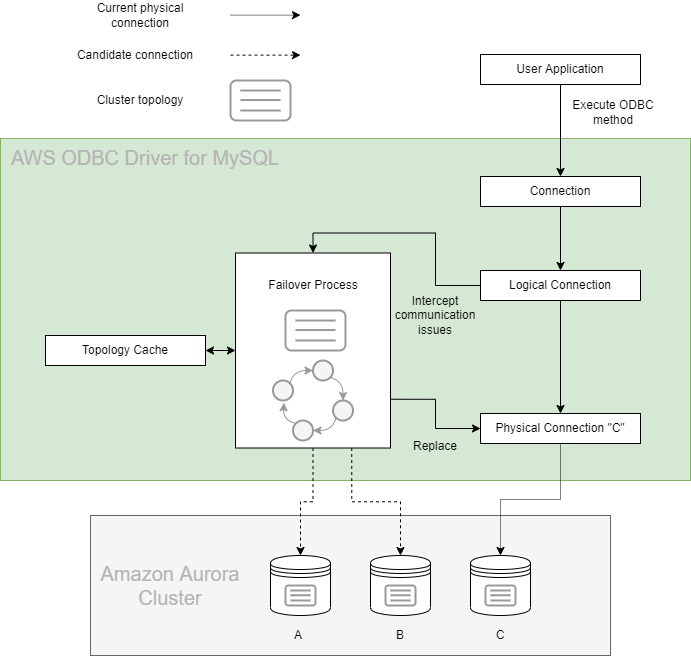
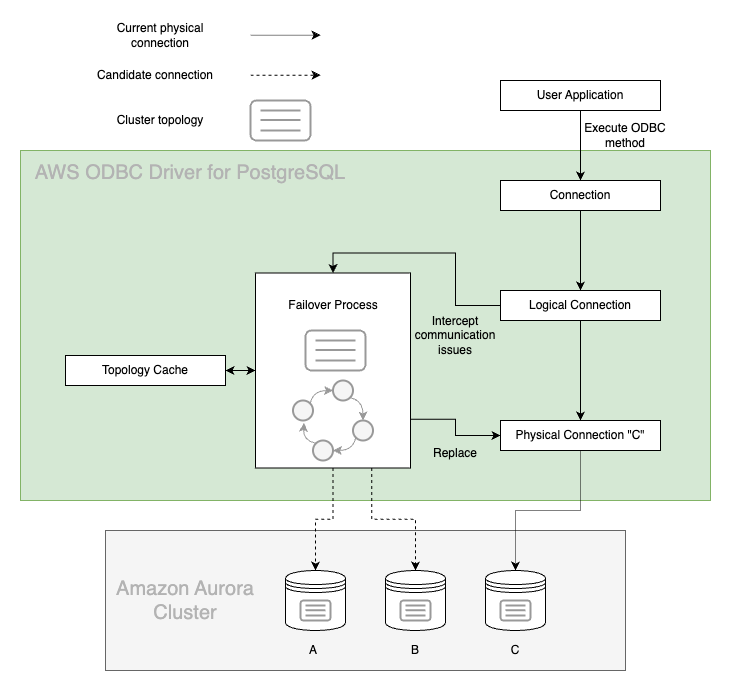
update docs

diff --git a/docs/using-the-aws-driver/failover/failover_sample_code.cpp b/docs/using-the-aws-driver/failover/failover_sample_code.cpp
@@ -1,0 +1,201 @@
+// Copyright Amazon.com, Inc. or its affiliates. All Rights Reserved.
+//
+// Licensed under the Apache License, Version 2.0 (the "License");
+// you may not use this file except in compliance with the License.
+// You may obtain a copy of the License at
+//
+//     http://www.apache.org/licenses/LICENSE-2.0
+//
+// Unless required by applicable law or agreed to in writing, software
+// distributed under the License is distributed on an "AS IS" BASIS,
+// WITHOUT WARRANTIES OR CONDITIONS OF ANY KIND, either express or implied.
+// See the License for the specific language governing permissions and
+// limitations under the License.
+
+// Copyright Amazon.com, Inc. or its affiliates. All Rights Reserved.
+//
+// This program is free software; you can redistribute it and/or modify
+// it under the terms of the GNU General Public License, version 2.0
+// (GPLv2), as published by the Free Software Foundation, with the
+// following additional permissions:
+//
+// This program is distributed with certain software that is licensed
+// under separate terms, as designated in a particular file or component
+// or in the license documentation. Without limiting your rights under
+// the GPLv2, the authors of this program hereby grant you an additional
+// permission to link the program and your derivative works with the
+// separately licensed software that they have included with the program.
+//
+// Without limiting the foregoing grant of rights under the GPLv2 and
+// additional permission as to separately licensed software, this
+// program is also subject to the Universal FOSS Exception, version 1.0,
+// a copy of which can be found along with its FAQ at
+// http://oss.oracle.com/licenses/universal-foss-exception.
+//
+// This program is distributed in the hope that it will be useful, but
+// WITHOUT ANY WARRANTY; without even the implied warranty of
+// MERCHANTABILITY or FITNESS FOR A PARTICULAR PURPOSE.
+// See the GNU General Public License, version 2.0, for more details.
+//
+// You should have received a copy of the GNU General Public License
+// along with this program. If not, see
+// http://www.gnu.org/licenses/gpl-2.0.html.
+
+#ifdef WIN32
+#include <windows.h>
+#endif
+
+#include <cstdint>
+#include <sql.h>
+#include <sqlext.h>
+
+#include <iostream>
+
+#define MAX_MSG_LEN 4096
+#define QUERY_BUFFER_SIZE 256
+#define SQL_STATE_LENGTH 6
+
+/**
+ * Print the error message if the previous ODBC command failed.
+ */
+void print_error(SQLRETURN rc, SQLHANDLE connection_handle, SQLHANDLE statement_handle) {
+  if (SQL_SUCCEEDED(rc)) {
+    return;
+  }
+
+  // Check what kind of error has occurred
+  SQLSMALLINT stmt_length;
+  SQLINTEGER native_error;
+
+  SQLTCHAR sqlstate[SQL_STATE_LENGTH], message[QUERY_BUFFER_SIZE];
+  SQLRETURN err_rc = SQLError(nullptr,
+                              connection_handle,
+                              statement_handle,
+                              sqlstate,
+                              &native_error,
+                              message,
+                              SQL_MAX_MESSAGE_LENGTH - 1,
+                              &stmt_length);
+
+  if (SQL_SUCCEEDED(err_rc)) {
+    std::cout << sqlstate << ": " << message << std::endl;
+  }
+  throw std::runtime_error("An error has occurred while running this sample code.");
+}
+
+void setInitialSessionState(SQLHDBC dbc, SQLHSTMT handle) {
+  const auto set_timezone = (SQLCHAR*)"SET TIME ZONE 'UTC'";
+  SQLExecDirect(handle, set_timezone, SQL_NTS);
+}
+
+void query_current_instance(SQLHDBC dbc) {
+  SQLHSTMT stmt = SQL_NULL_HANDLE;
+  SQLCHAR query_buffer[QUERY_BUFFER_SIZE];
+  SQLTCHAR instance_id[QUERY_BUFFER_SIZE];
+
+  SQLRETURN rc = SQLAllocHandle(SQL_HANDLE_STMT, dbc, &stmt);
+  sprintf(reinterpret_cast<char *>(query_buffer), "SELECT aurora_db_instance_identifier()");
+
+  // Check the connected instance.
+  rc = SQLExecDirect(stmt, query_buffer, SQL_NTS);
+  print_error(rc, nullptr, stmt);
+
+  rc = SQLBindCol(stmt, 1, SQL_C_CHAR, instance_id, sizeof(instance_id), nullptr);
+  rc = SQLFetch(stmt);
+  print_error(rc, nullptr, stmt);
+  SQLFreeHandle(SQL_HANDLE_STMT, stmt);
+
+  std::cout << "Current instance: " << instance_id << std::endl;
+}
+
+bool execute_update_query(SQLHDBC dbc, SQLCHAR* query) {
+  constexpr int MAX_RETRIES = 5;
+  SQLHSTMT handle;
+  SQLAllocHandle(SQL_HANDLE_STMT, dbc, &handle);
+
+  int retries = 0;
+  bool success = false;
+  setInitialSessionState(dbc, handle);
+
+  while (true) {
+    if (const SQLRETURN ret = SQLExecDirect(handle, query, SQL_NTS); SQL_SUCCEEDED(ret)) {
+      success = true;
+      break;
+    }
+
+    SQLCHAR message[SQL_MAX_MESSAGE_LENGTH];
+    SQLCHAR sqlstate[SQL_STATE_LENGTH];
+    if (retries > MAX_RETRIES) {
+      break;
+    }
+
+    // Check what kind of error has occurred
+    SQLSMALLINT stmt_length;
+    SQLINTEGER native_error;
+    SQLError(nullptr, nullptr, handle, sqlstate, &native_error, message, SQL_MAX_MESSAGE_LENGTH - 1, &stmt_length);
+
+    // Failover has occurred and the driver has failed over to another instance successfully
+    if (const std::string state = reinterpret_cast<char*>(sqlstate); state == "08S02") {
+      // Reconfigure the connection
+      setInitialSessionState(dbc, handle);
+      // Re-execute that query again
+      retries++;
+    } else {
+      // If other exceptions occur.
+      break;
+    }
+  }
+
+  SQLFreeHandle(SQL_HANDLE_STMT, handle);
+  return success;
+}
+
+int main() {
+  SQLHENV env;
+  SQLHDBC dbc;
+  SQLHSTMT stmt;
+  SQLSMALLINT len;
+  SQLCHAR conn_in[MAX_MSG_LEN], conn_out[MAX_MSG_LEN];
+  SQLTCHAR instance_id[QUERY_BUFFER_SIZE];
+
+  // Setup connection string
+  const char *dsn = "my_dsn";
+  const char *user = "iam_db_user";
+  const char *server = "database-pg-name.cluster-XYZ.us-east-2.rds.amazonaws.com";
+  int port = 5432;
+  const char *db = "postgres";
+
+  // Failover is disabled by default and must be enabled via the EnableClusterFailover parameter.
+  sprintf(reinterpret_cast<char *>(conn_in),
+          "DSN=%s;UID=%s;SERVER=%s;PORT=%d;DATABASE=%s;ENABLECLUSTERFAILOVER=1;",
+          dsn,
+          user,
+          server,
+          port,
+          db);
+
+  // Setup
+  SQLAllocHandle(SQL_HANDLE_ENV, nullptr, &env);
+  SQLSetEnvAttr(env, SQL_ATTR_ODBC_VERSION, reinterpret_cast<SQLPOINTER>(SQL_OV_ODBC3), 0);
+  SQLAllocHandle(SQL_HANDLE_DBC, env, &dbc);
+
+  // Connect
+  SQLRETURN rc = SQLDriverConnect(dbc, nullptr, conn_in, SQL_NTS, conn_out, MAX_MSG_LEN, &len, SQL_DRIVER_NOPROMPT);
+  print_error(rc, dbc, nullptr);
+
+  // Check the instance ID to see which instance we are connected to.
+  query_current_instance(dbc);
+
+  // In this sample code we will use a sleep query to simulate running a long query or an update query.
+  // You can trigger cluster failover using either the AWS Console or the AWS CLI while this query is executing the test the driver failover behaviour.
+  execute_update_query(dbc, (SQLCHAR*)"SELECT PG_SLEEP(60)");
+
+  // Check the instance ID again to ensure connection has swapped to a new instance after failover.
+  query_current_instance(dbc);
+
+  // Cleanup
+  SQLFreeHandle(SQL_HANDLE_STMT, stmt);
+  SQLDisconnect(dbc);
+  SQLFreeHandle(SQL_HANDLE_DBC, dbc);
+  SQLFreeHandle(SQL_HANDLE_ENV, env);
+}

diff --git a/docs/using-the-aws-driver/failover/failover.md b/docs/using-the-aws-driver/failover/failover.md
@@ -1,8 +1,8 @@
-# Failover
+# Failover Support for the AWS ODBC Driver for PostgreSQL 
 
 ## Failover Process
 
-In an Amazon Aurora database (DB) cluster, failover is a mechanism by which Aurora automatically repairs the DB cluster status when a primary DB instance becomes unavailable. It achieves this goal by electing an Aurora Replica to become the new primary DB instance, so that the DB cluster can provide maximum availability to a primary read-write DB instance. The AWS ODBC Driver for PostgreSQL uses the Failover Plugin to coordinate with this behavior in order to provide minimal downtime in the event of a DB instance failure.
+In an Amazon Aurora database (DB) cluster, failover is a mechanism by which Aurora automatically repairs the DB cluster status when a primary DB instance becomes unavailable. It achieves this goal by electing an Aurora Replica to become the new primary DB instance, so that the DB cluster can provide maximum availability to a primary read-write DB instance. The AWS ODBC Driver for PostgreSQL implements failover support to coordinate with this behavior in order to provide minimal downtime in the event of a DB instance failure.
 
 ![failover_diagram](img/failover_diagram.png)
 
@@ -18,17 +18,20 @@ At this point, the driver will connect to the new primary DB instance and return
 
 ## Failover Specific Options
 
-| Option                       | Description                                                                                                                                                                                                                                                                                                                                                                                                                                                                                                                                                                                                                                                                                                                                                                                                                                                                                                                                                                                                                 | Type  | Required                                                                                                                                        | Default                                                                                                                                          |
-|------------------------------|-----------------------------------------------------------------------------------------------------------------------------------------------------------------------------------------------------------------------------------------------------------------------------------------------------------------------------------------------------------------------------------------------------------------------------------------------------------------------------------------------------------------------------------------------------------------------------------------------------------------------------------------------------------------------------------------------------------------------------------------------------------------------------------------------------------------------------------------------------------------------------------------------------------------------------------------------------------------------------------------------------------------------------|-------|-------------------------------------------------------------------------------------------------------------------------------------------------|--------------------------------------------------------------------------------------------------------------------------------------------------|
-| `EnableClusterFailover`      | Set to `1` to enable the fast failover behaviour offered by the AWS ODBC Driver for PostgreSQL.                                                                                                                                                                                                                                                                                                                                                                                                                                                                                                                                                                                                                                                                                                                                                                                                                                                                                                                             | bool  | No                                                                                                                                              | `0`                                                                                                                                              |
-| `FailoverMode`               | Defines a mode for failover process. Failover process may prioritize nodes with different roles and connect to them. Possible values: <br><br>- `STRICT_WRITER` - Failover process follows writer node and connects to a new writer when it changes.<br>- `REDAER_OR_WRITER` - During failover, the driver tries to connect to any available/accessible reader node. If no reader is available, the driver will connect to a writer node. This logic mimics the logic of the Aurora read-only cluster endpoint.<br>- `STRICT_READER` - During failover, the driver tries to connect to any available reader node. If no reader is available, the driver raises an error. Reader failover to a writer node will only be allowed for single-node clusters. This logic mimics the logic of the Aurora read-only cluster endpoint.                                                                                                                                                                                              | char* | No                                                                                                                                              | Default value depends on connection url. For Aurora read-only cluster endpoint, it's set to `reader or writer`. Otherwise, it's `strict writer`. |                                      |
-| `HostPattern`                | This parameter is not required unless connecting to an AWS RDS cluster via an IP address or custom domain URL. In those cases, this parameter specifies the cluster instance DNS pattern that will be used to build a complete instance endpoint. A "?" character in this pattern should be used as a placeholder for the DB instance identifiers of the instances in the cluster.  <br/><br/>Example: `?.my-domain.com`, `any-subdomain.?.my-domain.com:9999`<br/><br/>Usecase Example: If your cluster instance endpoint follows this pattern:`instanceIdentifier1.customHost`, `instanceIdentifier2.customHost`, etc. and you want your initial connection to be to `customHost:1234`, then your connection string should look like this: `SERVER=customHost;PORT=1234;DATABASE=test;HOST_PATTERN=?.customHost` <br><br/> If the provided connection string is not an IP address or custom domain, the driver will automatically acquire the cluster instance host pattern from the customer-provided connection string. | char* | If connecting using an IP address or custom domain URL: Yes <br><br> Otherwise: No <br><br> See [Host Pattern](#host-pattern) for more details. | `NONE`                                                                                                                                           |
-| `ClusterID`                  | A unique identifier for the cluster. Connections with the same cluster ID share a cluster topology cache. This connection parameter is not required and thus should only be set if desired.                                                                                                                                                                                                                                                                                                                                                                                                                                                                                                                                                                                                                                                                                                                                                                                                                                 | char* | No                                                                                                                                              | Either the cluster ID or the instance ID, depending on whether the provided connection string is a cluster or instance URL.                      |
-| `ReaderHostSelectorStrategy` | Strategy used to select a reader node during failover. For more information on the available reader selection strategies. Currently supported strategies are: `RANDOM`, `ROUND_ROBIN`, `HIGHEST_WEIGHT`.                                                                                                                                                                                                                                                                                                                                                                                                                                                                                                                                                                                                                                                                                                                                                                                                                    | char* | No                                                                                                                                              | Either the cluster ID or the instance ID, depending on whether the provided connection string is a cluster or instance URL.                      |
-| `TopologyRefreshRate`        | Cluster topology refresh rate in milliseconds. The cached topology for the cluster will be invalidated after the specified time, after which it will be updated during the next interaction with the connection.                                                                                                                                                                                                                                                                                                                                                                                                                                                                                                                                                                                                                                                                                                                                                                                                            | int   | No                                                                                                                                              | `30000`                                                                                                                                          |
-| `TopologyHighRefreshRate`    | Interval of time in milliseconds to wait between attempts to reconnect to a failed writer during a writer failover process.                                                                                                                                                                                                                                                                                                                                                                                                                                                                                                                                                                                                                                                                                                                                                                                                                                                                                                 | int   | No                                                                                                                                              | `5000`                                                                                                                                           |
-| `IgnoreTopologyRefresh`      | Cluster topology refresh grace period in millisecond. Requests to update topology will be ignored after establishing an initial connection for the specified milliseoncds.                                                                                                                                                                                                                                                                                                                                                                                                                                                                                                                                                                                                                                                                                                                                                                                                                                                  | int   | No                                                                                                                                              | `5000`                                                                                                                                           |
-| `FailoverTimeout`            | Maximum allowed time in milliseconds to attempt reconnecting to a new writer or reader instance after a cluster failover is initiated.                                                                                                                                                                                                                                                                                                                                                                                                                                                                                                                                                                                                                                                                                                                                                                                                                                                                                      | int   | No                                                                                                                                              | `60000`                                                                                                                                          |
+| Option                       | Description                                                                                                                                                                                                                                                                                                                                                                                                                                                                                                                                                                                                                                                                                                                                                                                                                                                                                                                                                                                                                | Type  | Required                                                                                                                                        | Default                                                                                                                                          |
+|------------------------------|----------------------------------------------------------------------------------------------------------------------------------------------------------------------------------------------------------------------------------------------------------------------------------------------------------------------------------------------------------------------------------------------------------------------------------------------------------------------------------------------------------------------------------------------------------------------------------------------------------------------------------------------------------------------------------------------------------------------------------------------------------------------------------------------------------------------------------------------------------------------------------------------------------------------------------------------------------------------------------------------------------------------------|-------|-------------------------------------------------------------------------------------------------------------------------------------------------|--------------------------------------------------------------------------------------------------------------------------------------------------|
+| `EnableClusterFailover`      | Set to `1` to enable the fast failover behaviour offered by the AWS ODBC Driver for PostgreSQL.                                                                                                                                                                                                                                                                                                                                                                                                                                                                                                                                                                                                                                                                                                                                                                                                                                                                                                                            | bool  | No                                                                                                                                              | `0`                                                                                                                                              |
+| `FailoverMode`               | Defines a mode for failover process. Failover process may prioritize nodes with different roles and connect to them. Possible values: <br><br>- `STRICT_WRITER` - Failover process follows writer node and connects to a new writer when it changes.<br>- `READER_OR_WRITER` - During failover, the driver tries to connect to any available/accessible reader node. If no reader is available, the driver will connect to a writer node. This logic mimics the logic of the Aurora read-only cluster endpoint.<br>- `STRICT_READER` - During failover, the driver tries to connect to any available reader node. If no reader is available, the driver raises an error. Reader failover to a writer node will only be allowed for single-node clusters. This logic mimics the logic of the Aurora read-only cluster endpoint.                                                                                                                                                                                             | char* | No                                                                                                                                              | Default value depends on connection url. For Aurora read-only cluster endpoint, it's set to `READER_OR_WRITER`. Otherwise, it's `STRICT_WRITER`. |                                      |
+| `HostPattern`                | This parameter is not required unless connecting to an AWS RDS cluster via an IP address or custom domain URL. In those cases, this parameter specifies the cluster instance DNS pattern that will be used to build a complete instance endpoint. A "?" character in this pattern should be used as a placeholder for the DB instance identifiers of the instances in the cluster.  <br/><br/>Example: `?.my-domain.com`, `any-subdomain.?.my-domain.com:9999`<br/><br/>Usecase Example: If your cluster instance endpoint follows this pattern:`instanceIdentifier1.customHost`, `instanceIdentifier2.customHost`, etc. and you want your initial connection to be to `customHost:1234`, then your connection string should look like this: `SERVER=customHost;PORT=1234;DATABASE=test;HOSTPATTERN=?.customHost` <br><br/> If the provided connection string is not an IP address or custom domain, the driver will automatically acquire the cluster instance host pattern from the customer-provided connection string. | char* | If connecting using an IP address or custom domain URL: Yes <br><br> Otherwise: No <br><br> See [Host Pattern](#host-pattern) for more details. | `NONE`                                                                                                                                           |
+| `ClusterID`                  | A unique identifier for the cluster. Connections with the same cluster ID share a cluster topology cache. This connection parameter is not required and thus should only be set if desired.                                                                                                                                                                                                                                                                                                                                                                                                                                                                                                                                                                                                                                                                                                                                                                                                                                | char* | No                                                                                                                                              | Either the cluster ID or the instance ID, depending on whether the provided connection string is a cluster or instance URL.                      |
+| `ReaderHostSelectorStrategy` | Strategy used to select a reader node during failover. For more information on the available reader selection strategies. Currently supported strategies are: `RANDOM`, `ROUND_ROBIN`, `HIGHEST_WEIGHT`.                                                                                                                                                                                                                                                                                                                                                                                                                                                                                                                                                                                                                                                                                                                                                                                                                   | char* | No                                                                                                                                              | Either the cluster ID or the instance ID, depending on whether the provided connection string is a cluster or instance URL.                      |
+| `TopologyRefreshRate`        | Cluster topology refresh rate in milliseconds. The cached topology for the cluster will be invalidated after the specified time, after which it will be updated during the next interaction with the connection. Default value is set to 30000ms (30 seconds).                                                                                                                                                                                                                                                                                                                                                                                                                                                                                                                                                                                                                                                                                                                                                             | int   | No                                                                                                                                              | `30000`                                                                                                                                          |
+| `TopologyHighRefreshRate`    | Interval of time in milliseconds to wait between attempts to reconnect to a failed writer during a writer failover process. Default value is set to 10000ms (10 seconds).                                                                                                                                                                                                                                                                                                                                                                                                                                                                                                                                                                                                                                                                                                                                                                                                                                                  | int   | No                                                                                                                                              | `10000`                                                                                                                                          |
+| `IgnoreTopologyRefresh`      | Cluster topology refresh grace period in millisecond. Requests to update topology will be ignored after establishing an initial connection for the specified milliseconds. Default value is set to 30000ms (30 seconds).                                                                                                                                                                                                                                                                                                                                                                                                                                                                                                                                                                                                                                                                                                                                                                                                   | int   | No                                                                                                                                              | `30000`                                                                                                                                          |
+| `FailoverTimeout`            | Maximum allowed time in milliseconds to attempt reconnecting to a new writer or reader instance after a cluster failover is initiated. Default value is set to 300000ms (300 seconds).                                                                                                                                                                                                                                                                                                                                                                                                                                                                                                                                                                                                                                                                                                                                                                                                                                     | int   | No                                                                                                                                              | `300000`                                                                                                                                         |
+
+### DSN Window Example
+![DSN window example for failover](img/failover_dsn.png)
 
 ## Driver Behaviour During Failover For Different Connection URLs
 
@@ -37,7 +40,6 @@ At this point, the driver will connect to the new primary DB instance and return
 ## Host Pattern
 
 When connecting to Aurora clusters, this parameter is required when the connection string does not provide enough information about the database cluster domain name. If the Aurora cluster endpoint is used directly, the driver will recognize the standard Aurora domain name and can re-build a proper Aurora instance name when needed. In cases where the connection string uses an IP address, a custom domain name or localhost, the driver won't know how to build a proper domain name for a database instance endpoint. For example, if a custom domain was being used and the cluster instance endpoints followed a pattern of `instanceIdentifier1.customHost`, `instanceIdentifier2.customHost`, etc, the driver would need to know how to construct the instance endpoints using the specified custom domain. Because there isn't enough information from the custom domain alone to create the instance endpoints, the `HostPattern` should be set to `?.customHost`, making the connection string `SERVER=customHost;PORT=1234;DATABASE=test;HOST_PATTERN=?.customHost`. Refer to [Driver Behaviour During Failover For Different Connection URLs](#driver-behaviour-during-failover-for-different-connection-urls) for more examples.
-
 
 ## Failover Exception Codes
 
@@ -58,7 +60,7 @@ The original connection failed while the driver was in a transaction. Please res
 
 #### Sample Code
 
-// TODO
+[Failover Sample Code](failover_sample_code.cpp)
 
 > [!WARNING]\
 > Warnings About Proper Usage of the AWS ODBC Driver for PostgreSQL
